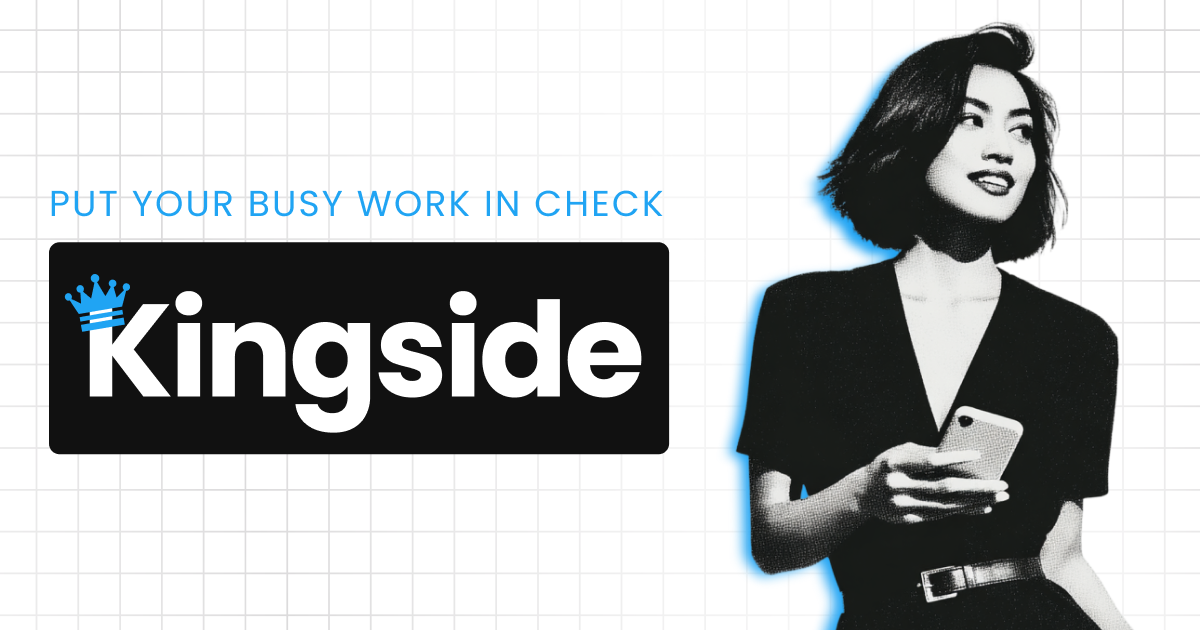
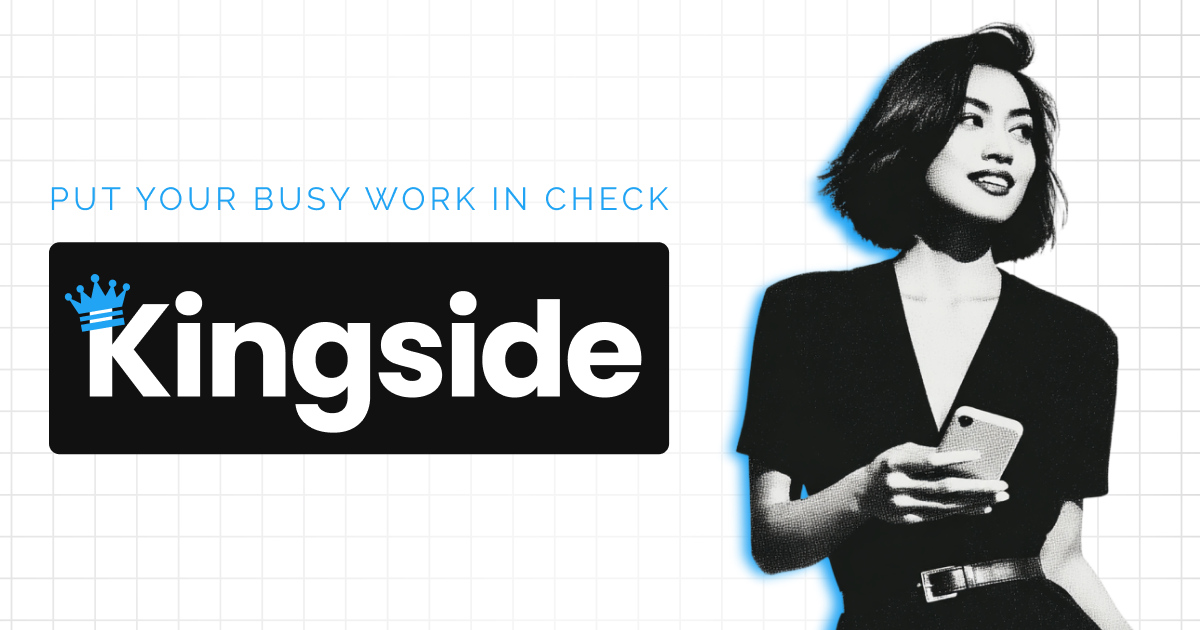
rework of social share image

diff --git a/src/components/sections/WhyKingside.tsx b/src/components/sections/WhyKingside.tsx
@@ -94,8 +94,8 @@ Harmonize your fragmented tech stack into an AI-powered, unified operational eng
                                 transition={{ duration: 0.5, ease: "easeOut" }}
                                 className="mx-auto w-full max-w-sm text-center sm:text-left"
                             >
-                                <div className="mb-5 inline-flex h-12 w-12 items-center justify-center rounded-full border border-sky-200 sm:mx-0">
-                                    <Icon size={20} weight="regular" className="text-sky-500" />
+                                <div className="mb-5 inline-flex h-12 w-12 items-center justify-center rounded-full border border-accent/30 sm:mx-0">
+                                    <Icon size={20} weight="regular" className="text-accent" />
                                 </div>
 
                                 <h3 className="text-xl font-semibold tracking-tight text-neutral-900">

diff --git a/src/components/sections/Hero.tsx b/src/components/sections/Hero.tsx
@@ -59,7 +59,7 @@ export function Hero() {
               initial={{ opacity: 0, y: 20 }}
               animate={{ opacity: 1, y: 0 }}
               transition={{ duration: 0.5, delay: 0.1 }}
-              className="text-xs sm:text-sm font-medium tracking-widest uppercase text-sky-500 mb-6"
+              className="text-xs sm:text-sm font-medium tracking-widest uppercase text-accent mb-6"
             >
               Put your busy work in check
             </motion.p>
